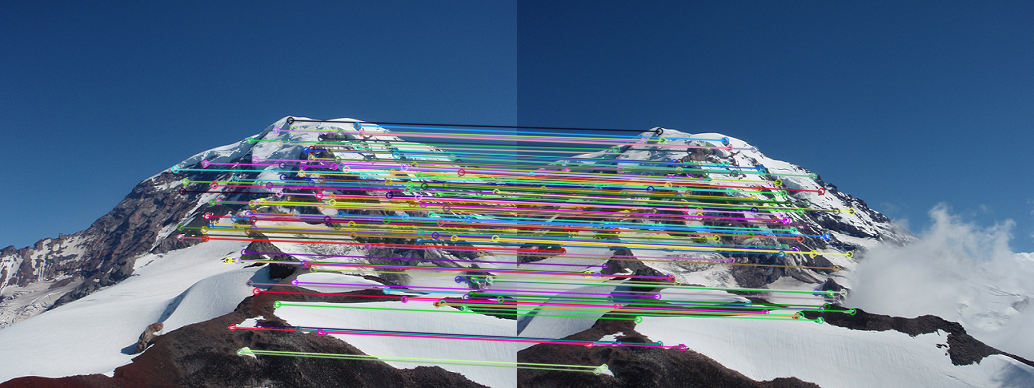
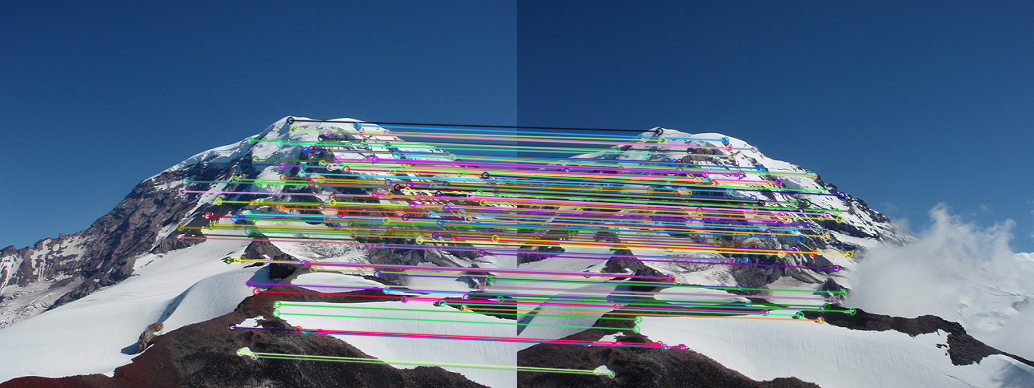
project finish
finishing touches really

Changed region(s): [[0.1547, 0.3402, 0.8356, 0.9897], [0.2476, 0.3093, 0.3095, 0.3711]]

diff --git a/panorama.py b/panorama.py
@@ -54,16 +54,12 @@ def harrisDetector(img, windowSize, threshold):
 	height = properties[0]
 	width = properties[1]
 
-	#Converting the img to floating point grayscale...(from 0 to 1)
+	#Converting the img to floating point grayscale...(from 0 to 1) --> not needed anymore, its done outside the function
 	gray = np.float32(cv.cvtColor(img,cv.COLOR_BGR2GRAY)) / 255
 
-	#From lab 2, to get derivatives of img
-	#sobel_X = np.array([[1, 0, -1], [2, 0, -2], [1, 0, -1]]) #* (1/8)
-	#sobel_Y = np.array([[1, 2, 1], [0, 0, 0], [-1, -2, -1]]) #* (1/8)
-
 	#computing derivatives
-	dx = cv.Sobel(gray, -1, 1, 0) #cv.filter2D(img,-1,sobel_X) --> unsure I can use built-in Sobel function...
-	dy = cv.Sobel(gray, -1, 0, 1) #cv.filter2D(img,-1,sobel_Y)
+	dx = cv.Sobel(gray, -1, 1, 0)
+	dy = cv.Sobel(gray, -1, 0, 1)
 	dxdy = dx*dy
 
 	dx2 = dx**2
@@ -134,7 +130,8 @@ def findFeatures(img, save, debug = False):
 	#NOTE: I compiled openCV with contrib and the ENABLE_NON_FREE tag
 	sift = cv.xfeatures2d.SIFT_create()
 
-	#keypoints, descriptors = sift.detectAndCompute(gray, None)
+	#keypoints, descriptors = sift.detectAndCompute(gray, None) 	#Changed this to only use compute and use my own corner detection
+	#My corner detection is much less efficient but it still works
 	keypoints, descriptors = sift.compute(gray, keypoints)
 
 	result = cv.drawKeypoints(img, keypoints, None, color=(0,255,0), flags = 0)

diff --git a/README.md b/README.md
@@ -32,3 +32,8 @@ The number of iterations for RANSAC can be modified at line 13 with the ITERATIO
 The threshold for RANSAC can be modified at line 14 with the THRESHOLD variable. (default = 0.995)
  
 To prevent the program from showing progress at each step, DEBUG_MODE can be set to False at line 16.
+
+
+## Other Notes
+
+My corner detection isn't as precise as I would want it to be (observable with the first image; the keypoints aren't aligned perfectly with the cube corners) but it still works well enough to build a panorama.
